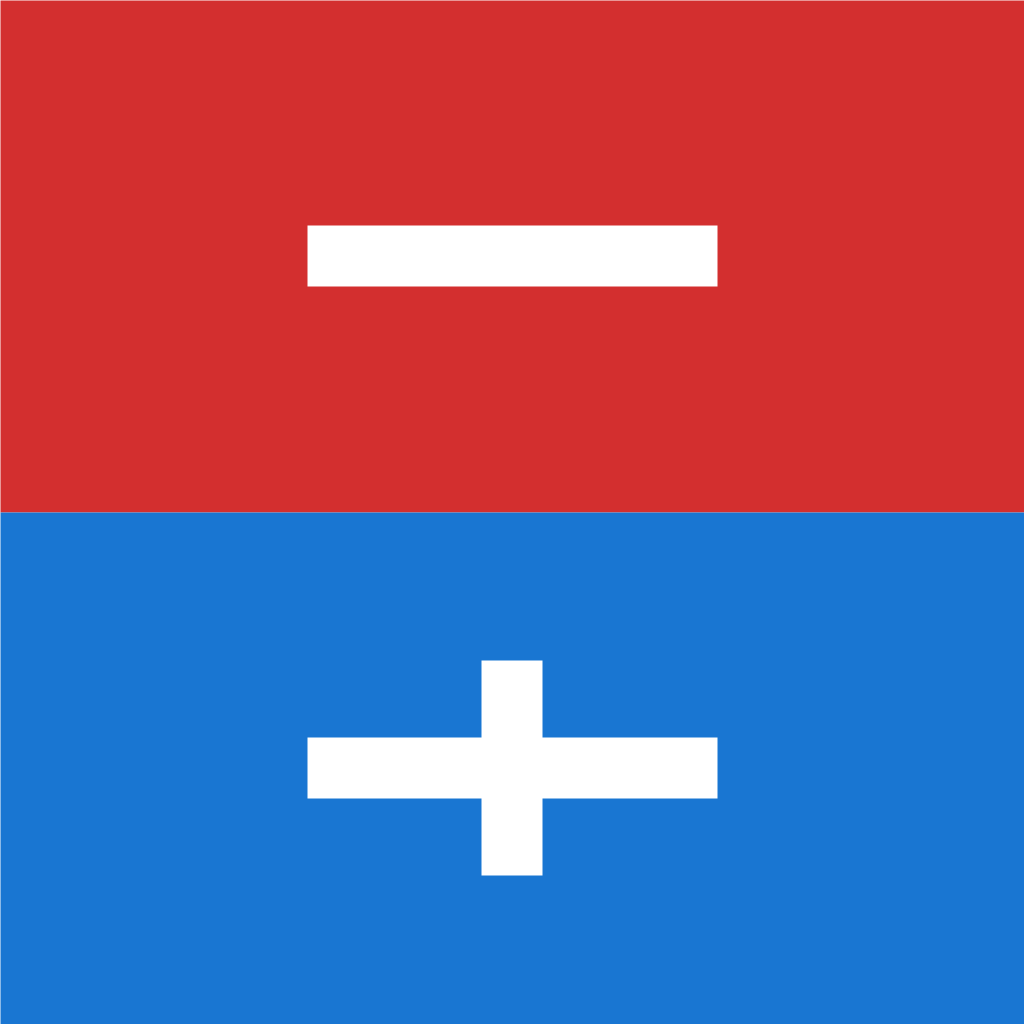
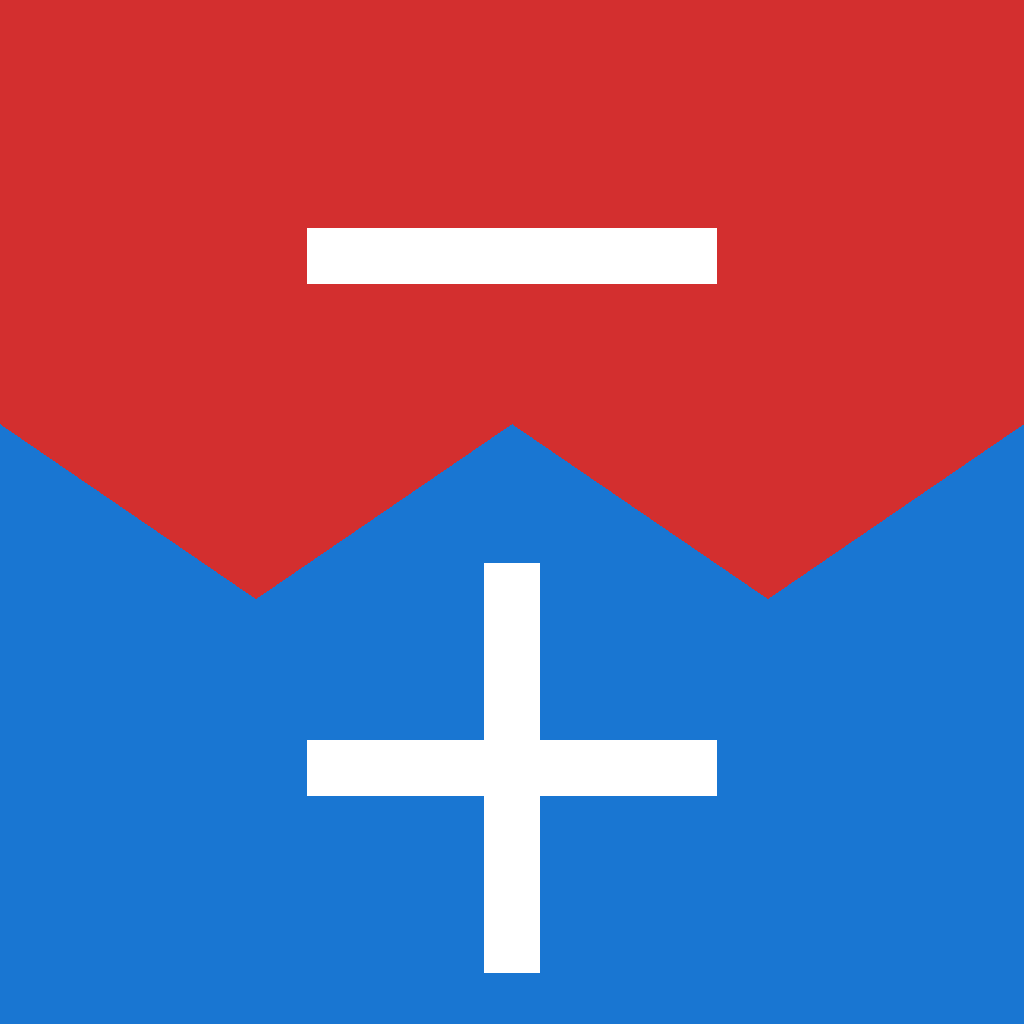
Redesenha o icone e corrige o borrao no iPhone
Duas metades lisas divididas ao meio lembravam demais logo de pizzaria; a
divisa agora e serrilhada, como duas forcas presas uma na outra.

O Flet gera o AppIcon60x60@2x mas nao o @3x, e todo iPhone do 12 para ca e
@3x — o sistema esticava 120 para 180 e o icone saia borrado. O ios.yml agora
copia os dois no tamanho exato. Como o app e Flutter, o Info.plist apontava
para o catalogo interno e o iOS ignorava arquivo solto, entao a referencia ao
catalogo sai e fica so o CFBundleIconFiles.

diff --git a/tools/gerar_icone.py b/tools/gerar_icone.py
@@ -1,0 +1,69 @@
+"""Desenha o icone do Cabo de Guerra e os tamanhos que o iPhone precisa.
+
+A divisa entre as duas metades e serrilhada de proposito: duas metades lisas
+divididas no meio sao a cara de logo de pizzaria/refrigerante, e a serrilha da
+a ideia de duas forcas presas uma na outra, que e o que o jogo e.
+
+Sao gerados tres arquivos:
+  src/assets/icon.png   1024  — e daqui que o Flet tira o icone do app
+  arte/icone_120.png     120  — AppIcon60x60@2x
+  arte/icone_180.png     180  — AppIcon60x60@3x, que o Flet NAO gera sozinho
+
+Sem o @3x o iPhone estica o de 120 para 180 e o icone sai borrado. O ios.yml
+copia esses dois para dentro do .app na hora de empacotar.
+
+Aqui a arte e geometria chapada, entao cada tamanho e desenhado direto no seu
+proprio tamanho — nao ha pixel art para preservar, como no Vale do Girassol.
+
+Rodar (na pasta do projeto):  python tools/gerar_icone.py
+                              (precisa do pygame: pip install pygame)
+"""
+import os
+
+import pygame
+
+VERMELHO = (211, 47, 47)
+AZUL = (25, 118, 210)
+BRANCO = (255, 255, 255)
+DENTES = 4          # quantas pontas tem a serrilha
+AMP = 0.085         # altura da serrilha, em fracao do lado
+BARRA = 0.40        # comprimento dos sinais, em fracao do lado
+ESPESSURA = 0.055   # espessura dos sinais, em fracao do lado
+
+
+def desenhar(lado):
+    s = pygame.Surface((lado, lado))     # sem alpha: o iOS exige opaco
+    s.fill(VERMELHO)
+
+    meio, amp = lado // 2, lado * AMP
+    serra = [(i * lado / DENTES, meio + (amp if i % 2 else -amp))
+             for i in range(DENTES + 1)]
+    # canto inferior esquerdo, canto inferior direito, e volta pela serrilha da
+    # direita para a esquerda. Na ordem trocada o poligono se cruza e vira laco.
+    pygame.draw.polygon(s, AZUL, [(0, lado), (lado, lado)] + serra[::-1])
+
+    esp, barra = max(2, round(lado * ESPESSURA)), round(lado * BARRA)
+    ym, ya = meio // 2, meio + meio // 2
+    pygame.draw.rect(s, BRANCO, (lado//2 - barra//2, ym - esp//2, barra, esp))
+    pygame.draw.rect(s, BRANCO, (lado//2 - barra//2, ya - esp//2, barra, esp))
+    pygame.draw.rect(s, BRANCO, (lado//2 - esp//2, ya - barra//2, esp, barra))
+    return s
+
+
+def main():
+    pygame.init()
+    raiz = os.path.dirname(os.path.dirname(os.path.abspath(__file__)))
+    saidas = (
+        (os.path.join(raiz, "src", "assets", "icon.png"), 1024),
+        (os.path.join(raiz, "arte", "icone_120.png"), 120),
+        (os.path.join(raiz, "arte", "icone_180.png"), 180),
+    )
+    for caminho, lado in saidas:
+        os.makedirs(os.path.dirname(caminho), exist_ok=True)
+        pygame.image.save(desenhar(lado), caminho)
+        print(f"{os.path.relpath(caminho, raiz)}: {lado}x{lado}")
+    pygame.quit()
+
+
+if __name__ == "__main__":
+    main()
